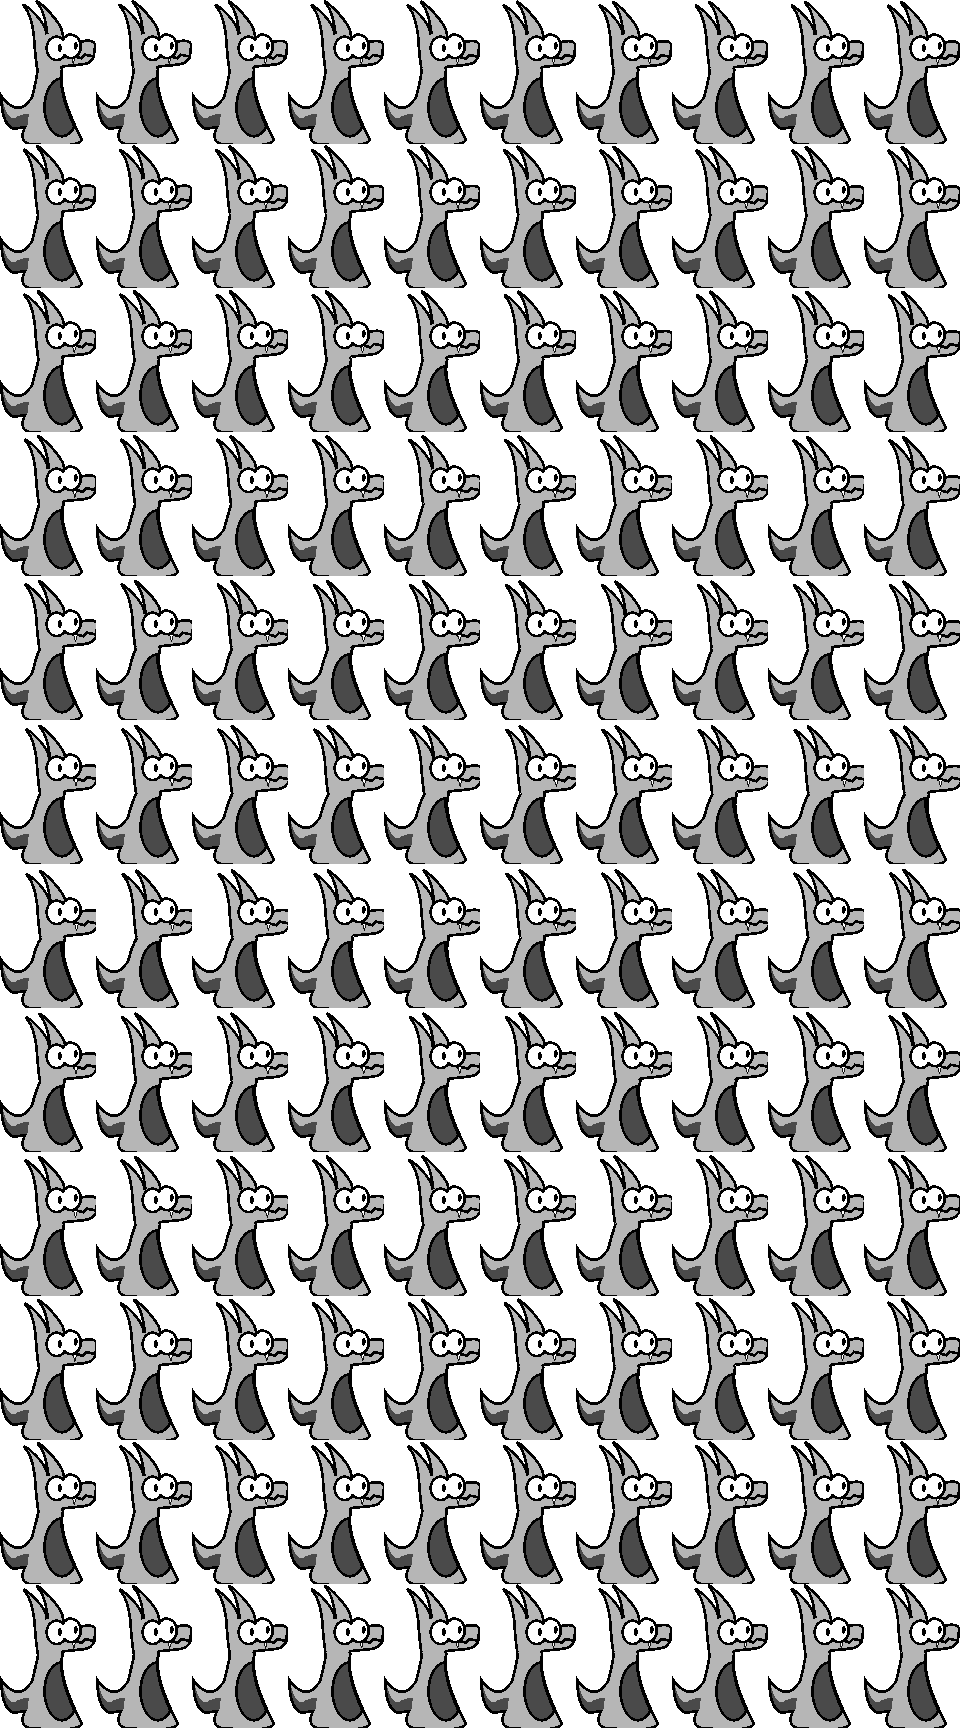
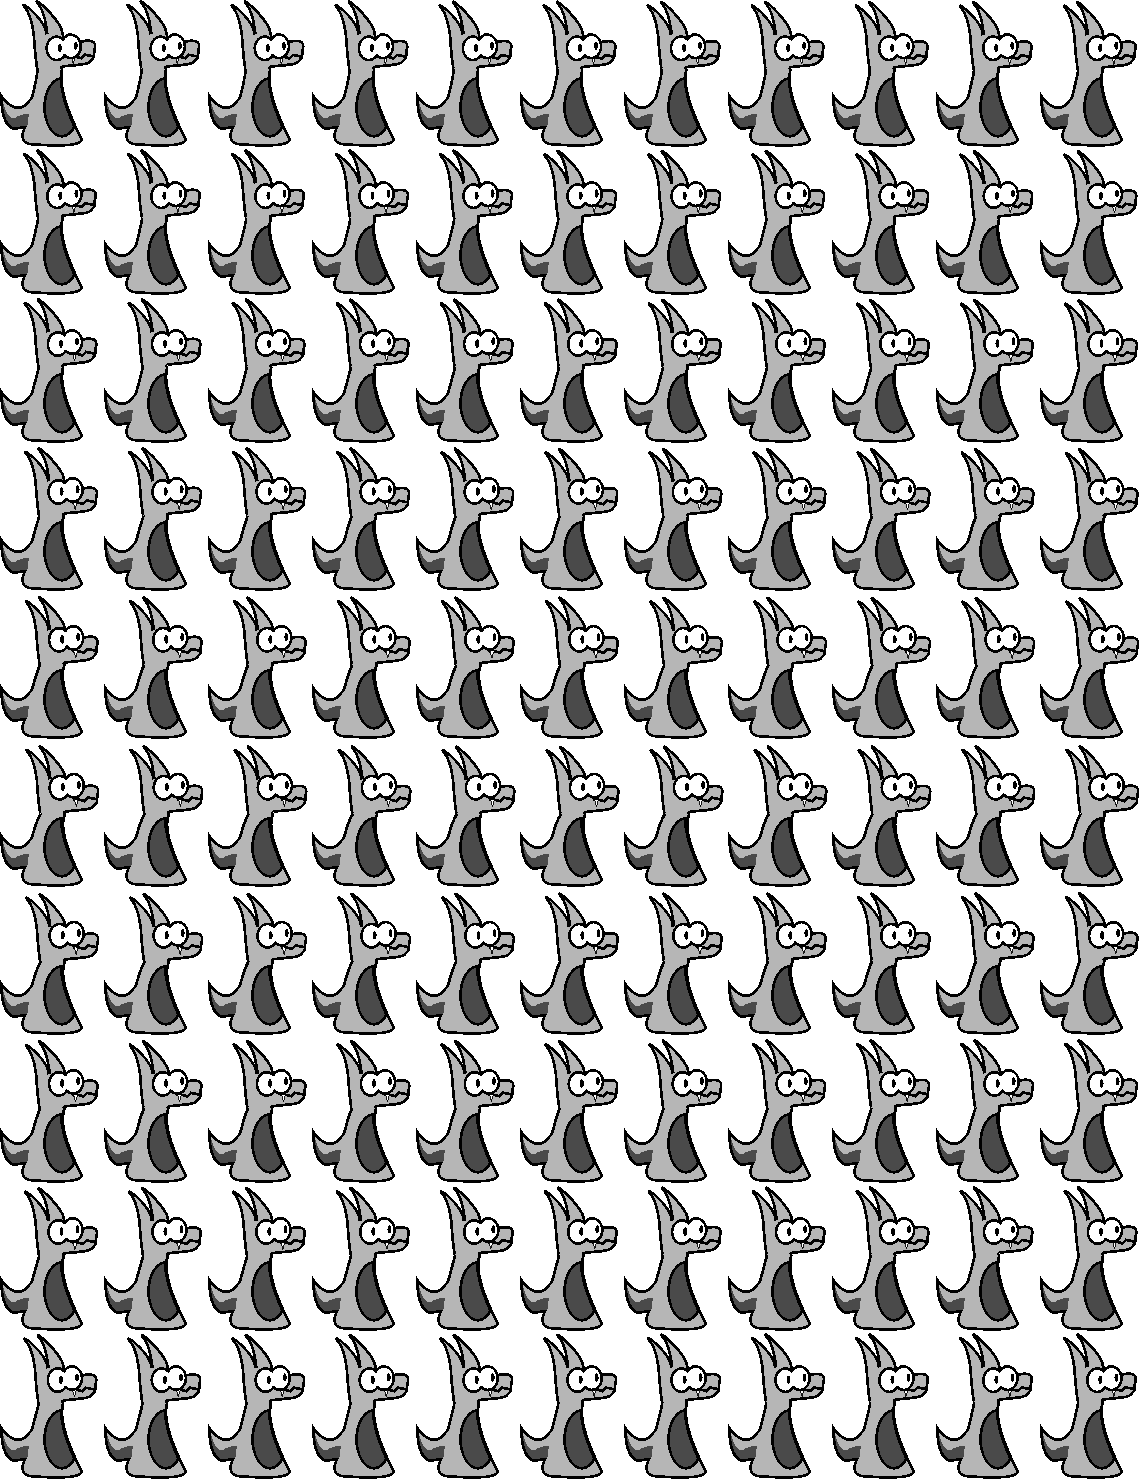
Improve animation

diff --git a/src/entities/playable/worm.ts b/src/entities/playable/worm.ts
@@ -193,8 +193,8 @@ export class Worm extends PlayableEntity<WormRecordedState> {
   ) {
     const sprite = new TiledSpriteAnimated({
       texture: Worm.idleAnim,
-      width: 96,
-      height: 144,
+      width: 104,
+      height: 148,
       tileScale: { x: 1, y: 1 },
       tilePosition: { x: 0, y: 0 },
       scale: { x: 0.33, y: 0.33 },
@@ -205,8 +205,8 @@ export class Worm extends PlayableEntity<WormRecordedState> {
     });
     const body = world.createRigidBodyCollider(
       ColliderDesc.cuboid(
-        (sprite.width * sprite.scale.x) / (PIXELS_PER_METER * 2),
-        (sprite.height * sprite.scale.y) / (PIXELS_PER_METER * 2),
+        sprite.scaledWidth / (PIXELS_PER_METER * 2),
+        sprite.scaledHeight / (PIXELS_PER_METER * 2),
       )
         .setActiveEvents(ActiveEvents.COLLISION_EVENTS)
         .setCollisionGroups(Worm.collisionBitmask)

diff --git a/src/utils/tiledspriteanimated.ts b/src/utils/tiledspriteanimated.ts
@@ -21,6 +21,13 @@ export class TiledSpriteAnimated extends TilingSprite {
     this.columns = opts.columns;
   }
 
+  public get scaledWidth() {
+    return this.width * this.scale.x;
+  }
+  public get scaledHeight() {
+    return this.height * this.scale.y;
+  }
+
   public update(deltaMs: number) {
     this.timeSinceLastAnim += deltaMs;
     if (Flags.stepAnimationsId) {
